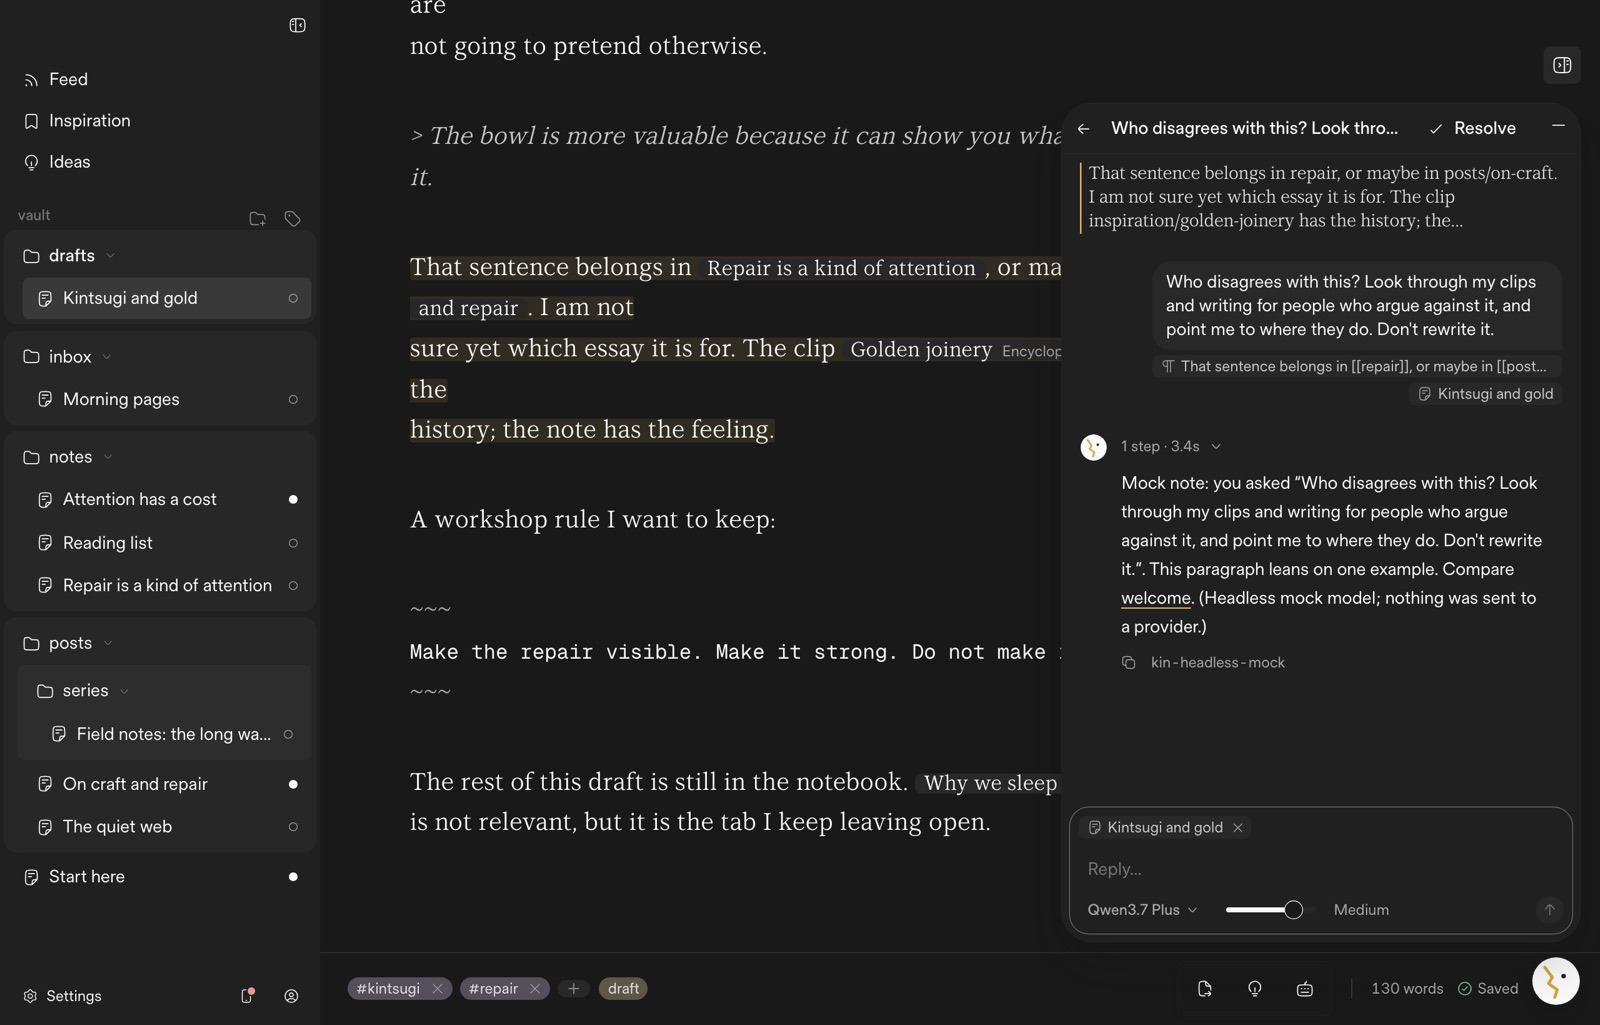
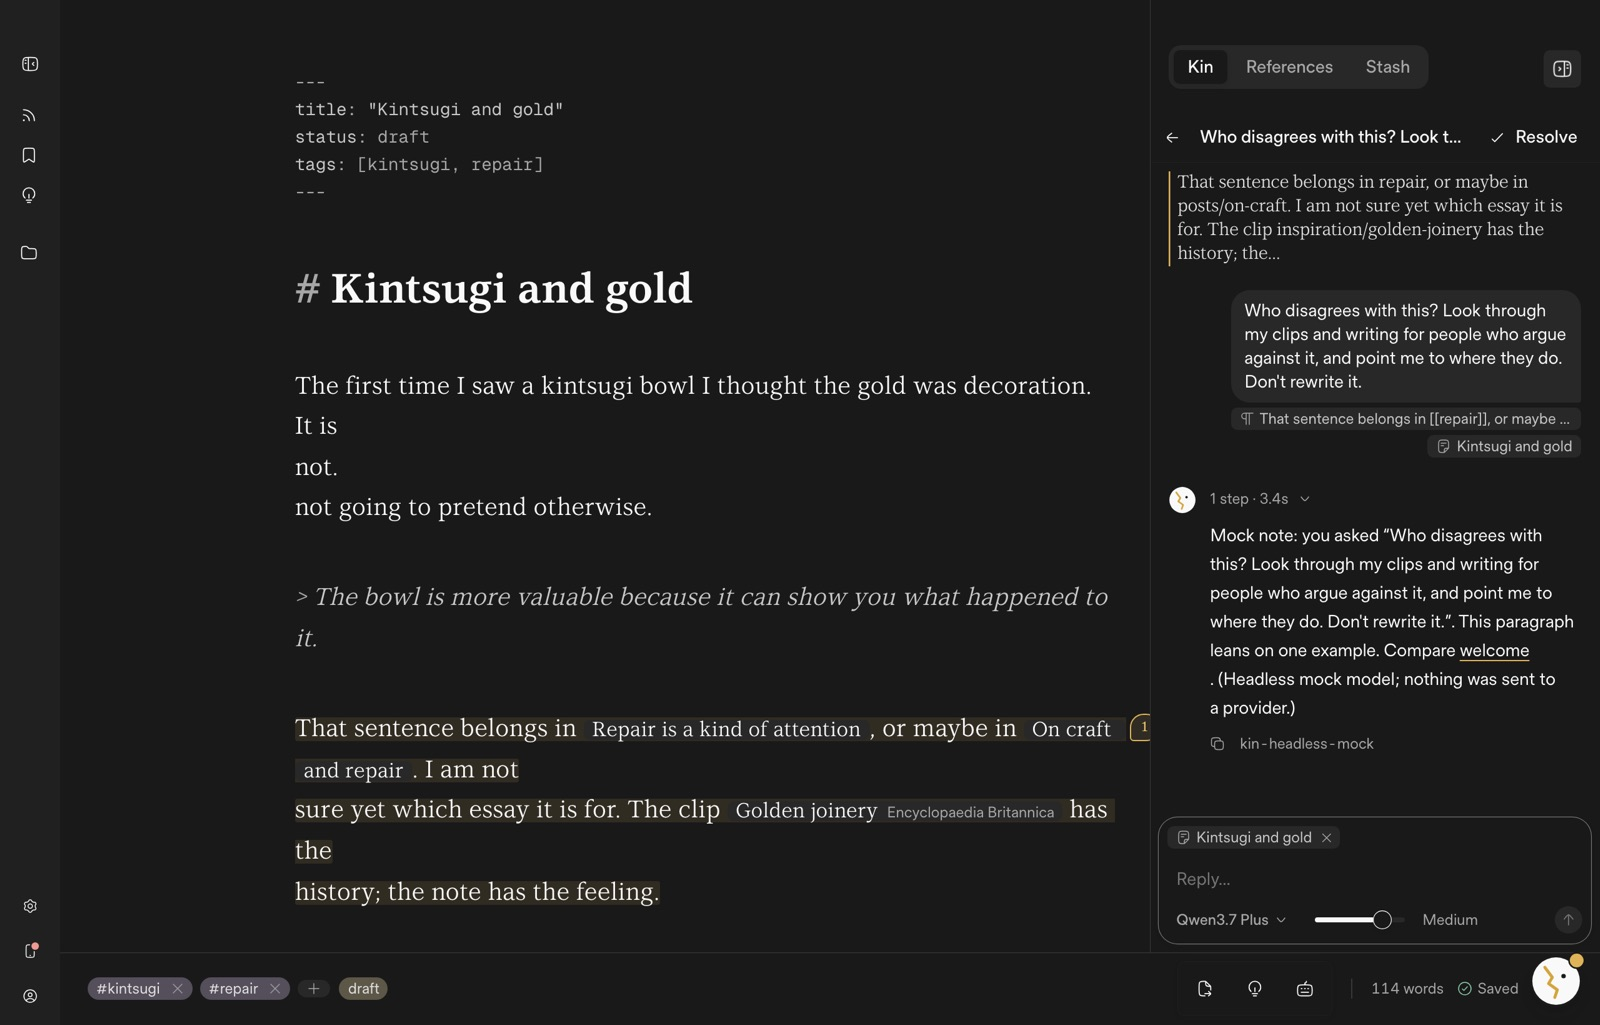
KI-104: the Kin tab in KI-103's margin; screenshots in the margin, light and dark

diff --git a/apps/desktop/test/runtime-threads.test.ts b/apps/desktop/test/runtime-threads.test.ts
@@ -202,6 +202,9 @@ test("deleting the paragraph keeps the thread, with the text it was on", { timeo
   await kinReplies().first().waitFor();
   assert.equal(await kinReplies().count(), 1, "its messages are kept");
 
+  // Closed first: an open margin folds the sidebar at this width.
+  await page.keyboard.press("Meta+j");
+  await pane().waitFor({ state: "detached" });
   await page.reload();
   await openDoc();
   assert.ok(claim(), "never lost");
